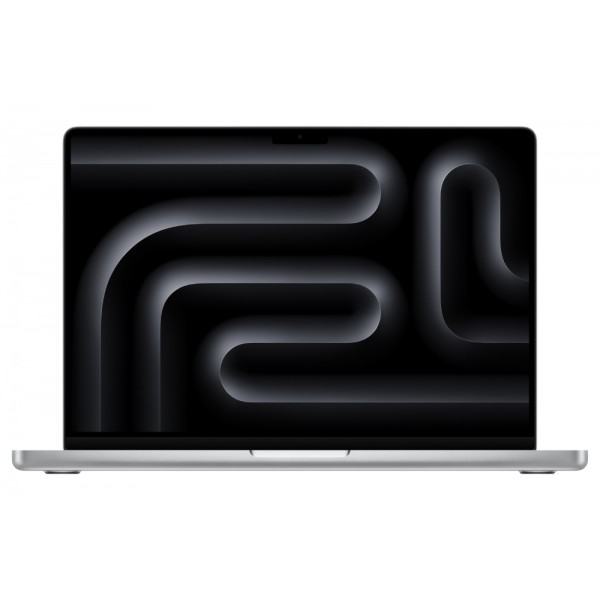
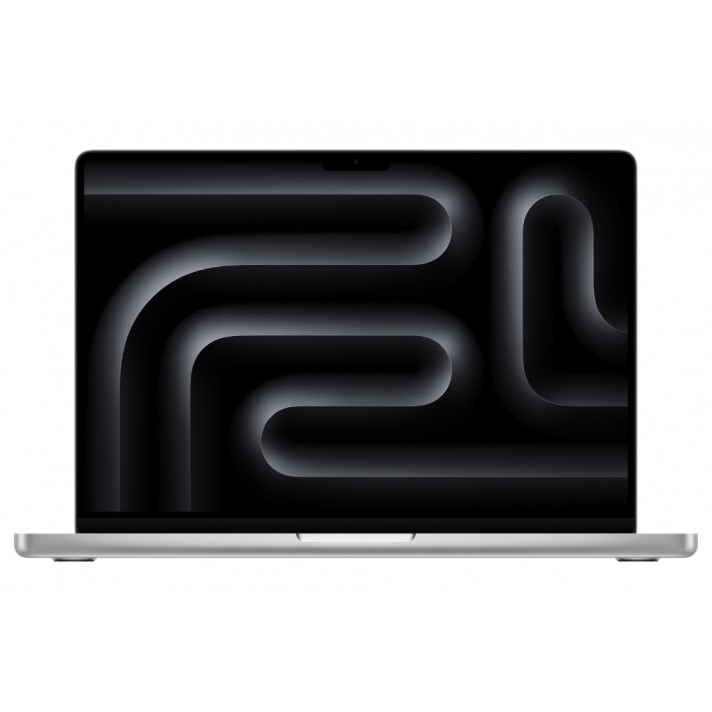
I changed the photos for several Macbooks. Also changed the way the checkout button looks in the cart file and removed the free discount field.

Changed region(s): [[0.87, 0.78, 0.93, 0.81], [0.06, 0.78, 0.12, 0.81]]

diff --git a/css/basket-style.css b/css/basket-style.css
@@ -1,57 +1,9 @@
-/*!*h2{*!*/
-/*!*    color: black;*!*/
-/*!*}*!*/
-
-/*!*table{*!*/
-/*!*    color: black;*!*/
-/*!*}*!*/
-/*.cart-container {*/
-/*    display: flex;*/
-/*    justify-content: space-between;*/
-/*}*/
-
-/*.cart-items {*/
-/*    width: 60%;*/
-/*}*/
-
-/*.cart-item {*/
-/*    display: flex;*/
-/*    margin-bottom: 20px;*/
-/*}*/
-
-/*.item-image {*/
-/*    width: 150px;*/
-/*    height: 150px;*/
-/*    object-fit: cover;*/
-/*}*/
-
-/*.item-details {*/
-/*    margin-left: 20px;*/
-/*}*/
-
-/*.cart-summary {*/
-/*    width: 30%;*/
-/*    border: 1px solid #ddd;*/
-/*    padding: 20px;*/
-/*}*/
-
-/*.checkout-button {*/
-/*    display: block;*/
-/*    width: 100%;*/
-/*    text-align: center;*/
-/*    padding: 10px;*/
-/*    background-color: #000;*/
-/*    color: #fff;*/
-/*    text-decoration: none;*/
-/*    margin-top: 20px;*/
-/*}*/
-/*.cart-container h3{*/
-/*    color: black;*/
-/*}*/
-/*.cart-container p{*/
-/*    color: black;*/
-/*}*/
-
+h2{
+    color:  black;
+    margin-left: 7em;
+    margin-top: 2em;
+    font-size: 25px;
+}
 
 .cart-container {
     display: flex;
@@ -127,9 +79,19 @@
 
 .cart-container h3{
     color: black;
+    margin-top: 1em;
 }
 .cart-container p{
     color: black;
+}
+
+/*if i want to come back to old styles for checkout button, delete .cart-summary a{}*/
+.cart-summary a{
+    background: white;
+    color: black;
+    border: 1px solid black;
+    border-radius: 5px;
+    width: 23em;
 }
 
 .promocode-Form input{

diff --git a/shoppingBasket.php b/shoppingBasket.php
@@ -121,7 +121,7 @@ $mysqli->close();
     </div>
 </header>
 <main>
-    <h2>Shopping Cart</h2>
+    <h2>Shopping cart:</h2>
     <div class="cart-container">
         <div class="cart-items">
             <?php if (empty($orders)): ?>
@@ -157,9 +157,8 @@ $mysqli->close();
             <?php endif; ?>
             <h3>Cart Summary</h3>
             <p>Subtotal: $<?= $totalCost ?></p>
-            <p>Free Shipping Promo: -$9.99</p>
             <p>Discount: $<?= $discount ?></p>
-            <p>Total Cost: $<?= $totalCostWithPromo -9.99?></p>
+            <p>Total Cost: $<?= $totalCostWithPromo?></p>
 
             <a href="checkout.php" class="checkout-button">Checkout</a>
         </div>
